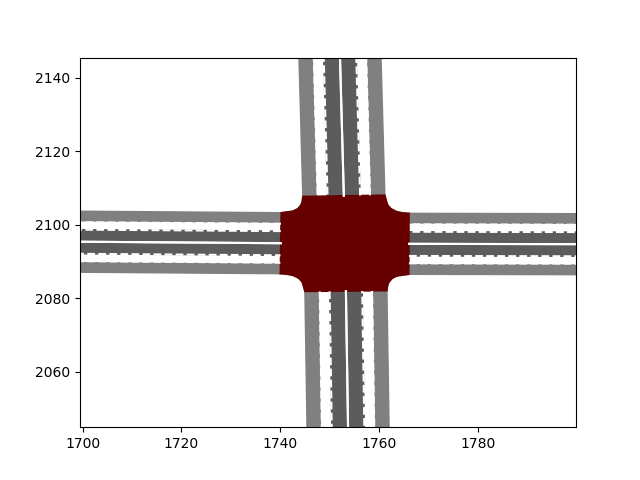
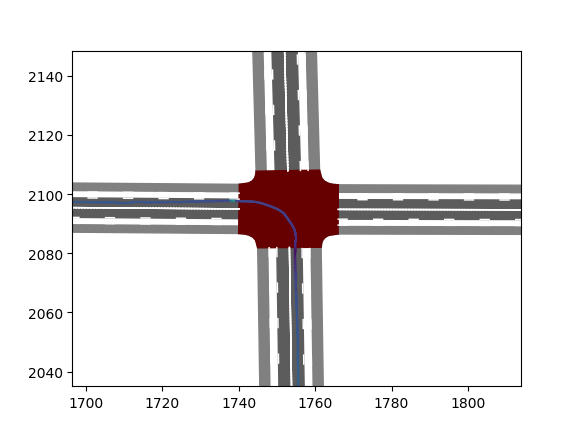
Update example plots

diff --git a/README.md b/README.md
@@ -1,7 +1,8 @@
 # SumoNetVis
 A Python library for visualizing a Sumo network and trajectories with matplotlib.
 
-![Example plot of an intersection](Example_Plot.png)
+![Example plot of an intersection with trajectory colored by speed](Example_Plot.png)
+![Example plot of an curving road with bike lanes](Example_Plot_2.png)
 
 ## Installation
 Simply download this repository to your working directory. You can then import the library with the following line:
